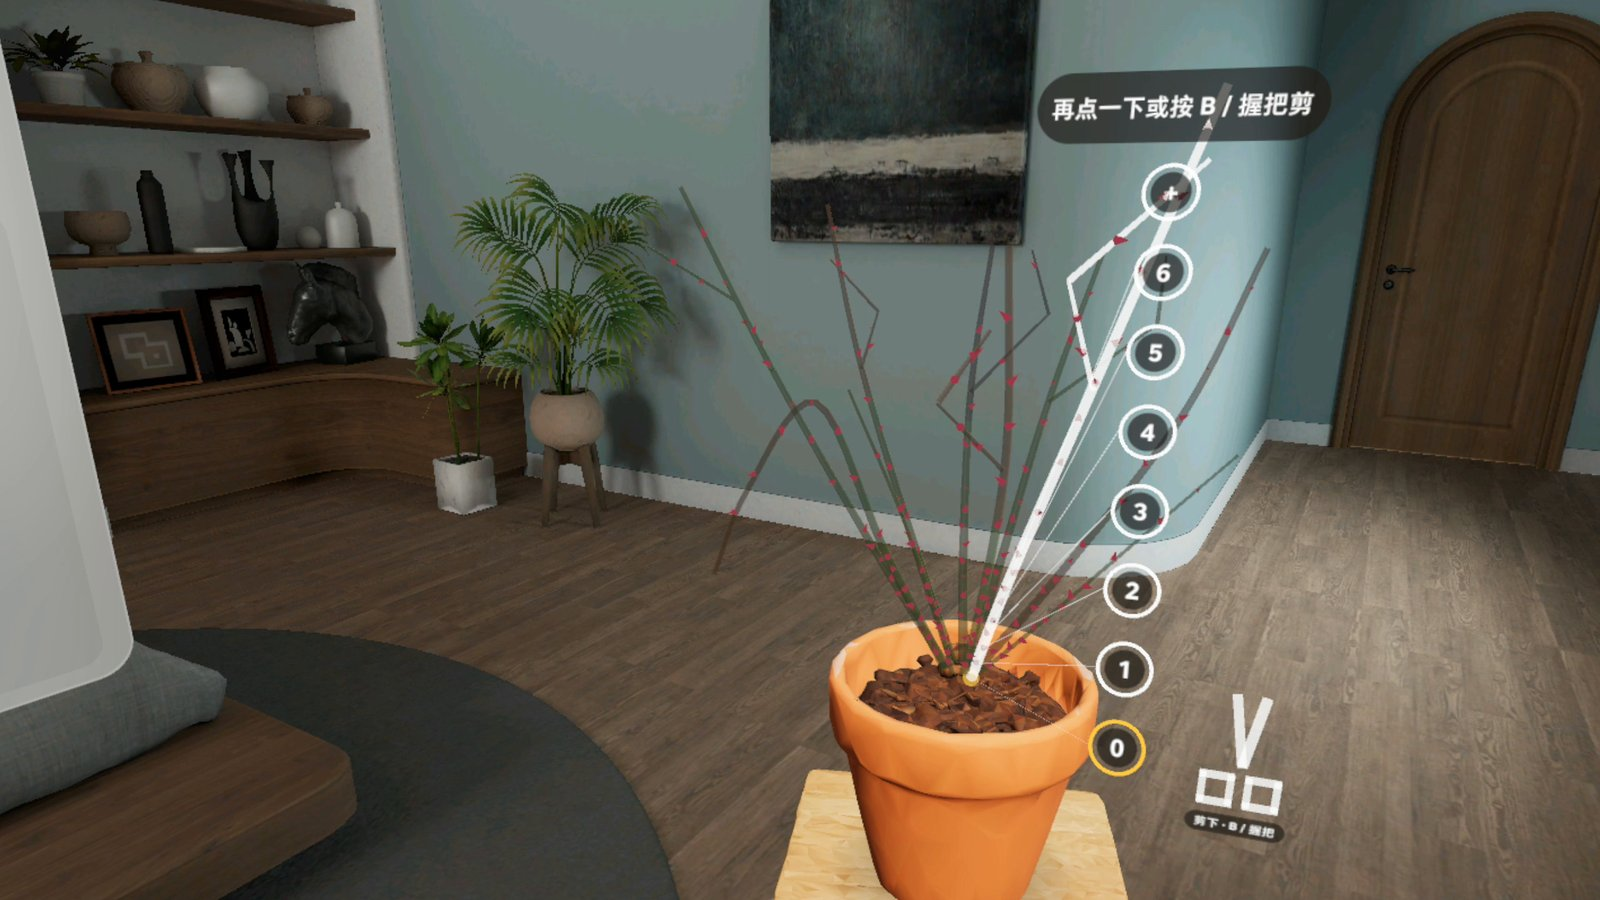
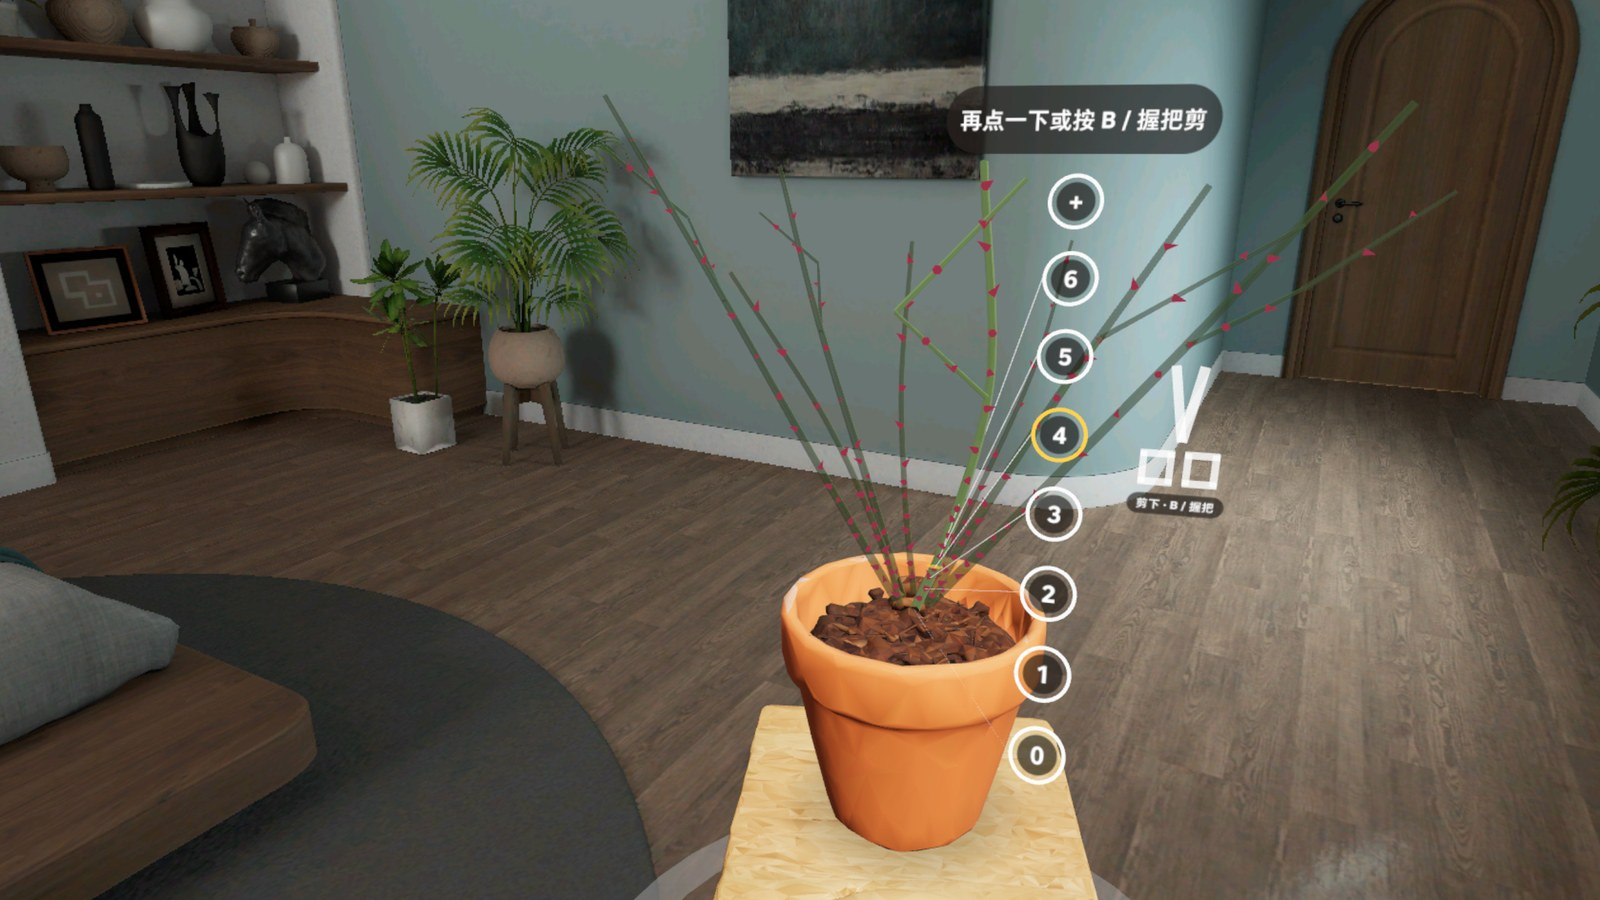
v0.1.8 release: bilingual README, new emulator screenshots

diff --git a/README.md b/README.md
@@ -1,13 +1,17 @@
 # 修枝课 Pruning Class
 
-> **v0.1.8 · 研发版（待 QA）**：选中的枝保留本色（不再整根变白），其余枝淡化但带标记的不淡；[重置本课] 有剪口时先确认（Build for QA · the selected branch keeps its own colour）
+> **v0.1.8 · 正式发布**：选中的枝保留本色（不再整根变白）；选中后直接点另一根枝就换选；只有系统射线一条；[重置本课] 有剪口时先确认。模拟器 QA 第 7 轮通过，已装头显、待戴上验收。
+> **v0.1.8 release**: the selected cane keeps its own colour (no more white); tap another cane to switch; one system ray only; [Reset lesson] asks first. Passed emulator QA round 7; installed on a headset, not yet checked by a person wearing it.
 
-**安装 / Install**（APK 在 [Release v0.1.7](https://github.com/kejing-dev/PruningClass/releases/tag/v0.1.7)）：
+**安装 / Install**（APK 在 [Release v0.1.8](https://github.com/kejing-dev/PruningClass/releases/tag/v0.1.8)）：
 
 ```bash
-adb install -r pruning-class-v0.1.7-debug.apk
+adb install -r PruningClass-v0.1.8.apk
 pico-cli app launch io.embodit.pruningclass
 ```
+
+Release 里的 `PruningClass-v0.1.8.apk` 是 `assembleRelease` 出的**未签名**包（上架用，平台托管签名）；直接装头显要先签名，或在本机 `./gradlew assembleDebug` 后装 `app/build/outputs/apk/debug/app-debug.apk`。
+The release APK is an **unsigned** `assembleRelease` build (for store submission, signed by the platform); to sideload, sign it first or build `./gradlew assembleDebug` and install the debug APK.
 
 头显上如果装过别的电脑签名的旧版、报 `INSTALL_FAILED_UPDATE_INCOMPATIBLE`，先 `adb uninstall io.embodit.pruningclass` 再装。
 If an older build signed on another machine is installed and you get `INSTALL_FAILED_UPDATE_INCOMPATIBLE`, run `adb uninstall io.embodit.pruningclass` first.
@@ -31,34 +35,35 @@ If an older build signed on another machine is installed and you get `INSTALL_FA
 - **设置**里有「怎么操作」：选枝、选芽、剪下、换枝、转树、挪树、剪完了，每项写手和手柄两种做法
 - 树站在真实地面上，捏住地上的圆圈拖动挪树；中英双语，不联网，不需要账号
 
-### 截图（模拟器，中文界面，v0.1.7）
+### 截图（模拟器，中文界面，v0.1.8）
 
 | | |
 |---|---|
-| ![选枝](docs/01-select.jpg) 选中一根枝：编号芽环，「点一个芽」 | ![剪刀](docs/02-scissors.jpg) 点了芽环：剪刀幽灵对准，「再点一下或按 B / 握把剪」 |
-| ![标准明年](docs/03-nextyear.jpg) 标准明年：剪对了，月季开花 | ![修剪页](docs/04-pruning.jpg) 修剪页：四个大按钮 + 这一课的口诀 |
-| ![成绩](docs/05-result.jpg) 成绩页：剪对 6 / 6，看明年、逐条看 | ![怎么操作](docs/06-howto.jpg) 设置 → 怎么操作：手和手柄的做法 |
+| ![选枝](docs/01-select.jpg) 选中一根枝：保留本色，编号芽环 | ![剪刀](docs/02-scissors.jpg) 点了芽环：剪刀幽灵对准，「再点一下或按 B / 握把剪」 |
+| ![提示](docs/03-hints.jpg) 提示开：该剪的枝标成提示橙 | ![标准明年](docs/04-nextyear.jpg) 标准明年：剪对了，月季开花 |
+| ![成绩](docs/05-result.jpg) 成绩页：剪对 6 / 6，看明年、逐条看、下一课 | ![苹果](docs/06-apple.jpg) 苹果考试剪完：「你的明年」开满花 |
 
-截图来自 PICO 模拟器（High Definition 2560）：前三张是 v0.1.7 演示录像里的画面和同一轮的截屏，后三张是 QA 第 6 轮（v0.1.7）的窗口截图。演示视频（Release 附件 `pruning-class-v0.1.7-demo.mp4`）是**原生模拟器演示，调试输入驱动；非真实手势录像**，无声。
+截图全部是 v0.1.8 在 PICO 模拟器（High Definition 2560）上拍的，调试广播摆状态。演示视频（Release 附件 `PruningClass-demo-v0.1.8.mp4`）是**模拟器演示，调试输入驱动；非真实手势录像**，无声。
 
 ### 真机未验证
 
-模拟器 QA 第 6 轮通过：无 Material 组件、启动 60 秒无崩溃 / ANR；芽环、字母环、剪刀用射线和眼手捏合各回归一遍 0 次点错；换枝、种植位置、拖动都回归过。下面这些只有戴上头显才能确认：
+模拟器 QA 第 7 轮通过：无 Material 组件、启动 60 秒无崩溃 / ANR；选中高亮（保留本色）、换枝、[重置本课] 确认都回归过。v0.1.8 已装到头显，还没人戴上看。下面这些只有戴上头显才能确认：
 
-- **射线**：应用不再自己画射线，按设计每个手柄只剩系统那一条。但 v0.1.0 在头显上，这个 Stage 里看不到系统射线，所以现在可能每手柄一条，也可能一条都没有——**请先看这一项**
+- **射线**：应用不再自己画射线，按设计只剩系统那一条——**请先看这一项**
 - 手柄 B / 握把剪、Y / X 退出、摇杆转树，拖动手感、眼动精度
 - 真机平面检测的时机和估算地面是否贴合
 
 ### 已知问题
 
 1. 射线真机未验（见上）。
-2. 剪刀幽灵还是方块拼的。
-3. 字母环和它对应的枝不够清楚。
-4. 捏合偶尔没收到点击（模拟器实测 4 / 84）。
-5. 修剪页常驻一行说明文字。
-6. [转 45°] 只能顺时针，反方向用摇杆。
-7. 控制窗和树隔约 63°，要转头。
-8. 「明年」视图里的标签会互相叠。
+2. 已选枝的芽环正好挡在别的枝尖前时，点那里会点到芽环而不是换枝（QA #7：7 次里 2 次）。
+3. 剪刀幽灵还是方块拼的。
+4. 字母环和它对应的枝不够清楚。
+5. 捏合偶尔没收到点击（模拟器实测 4 / 84）。
+6. 修剪页常驻一行说明文字。
+7. [转 45°] 只能顺时针，反方向用摇杆。
+8. 控制窗和树隔约 63°，要转头。
+9. 「明年」视图里的标签会互相叠。
 
 ### 开发
 
@@ -72,6 +77,7 @@ Learn to prune a rose bush and an apple tree before winter. A PICO OS 6 mixed-re
 
 - **Two plants, three lessons each**: rose (dead wood and thin stems → crossing, bud direction, bud count → exam); apple (dead wood, suckers, water shoots → open centre, leaders, don't over-prune → exam). Lesson 3 is an exam with no hints
 - **Big bud rings**: each ring ≥ 4.5 cm (≥ 2.3°) with ≥ 2 cm gaps, 7 to a page with "more"; when branches are close together, letter rings come first and you pick the branch by letter
+- **The selection keeps the colour**: the selected cane keeps its bark / disease / hint colour with a slight lift; the bud rings and tooltip show the selection
 - **Switch branches without a button**: with a branch selected, tap another one; tap the circle on the floor or press Y / X to leave
 - **Control window**: a native system window with three tabs (Lesson / Rule card / Settings). The lesson page has only [Undo] [Done] [Hints] [Turn 45°], 64 dp buttons with 16 dp gaps
 - **Results**: correct cuts, wrong cuts, amount removed; one button cycles now / your next year / model next year, and [Review] goes through every cut
@@ -80,26 +86,27 @@ Learn to prune a rose bush and an apple tree before winter. A PICO OS 6 mixed-re
 
 ### Screenshots
 
-See the table above (Chinese UI on the PICO emulator, High Definition 2560; the first three from the v0.1.7 demo session, the last three from QA round 6 on v0.1.7). The demo video in the release (`pruning-class-v0.1.7-demo.mp4`) is an emulator demo driven by debug input — **not a recording of real hand gestures** — and has no sound.
+See the table above (Chinese UI, all taken on v0.1.8 on the PICO emulator, High Definition 2560, states set by debug broadcasts). The demo video in the release (`PruningClass-demo-v0.1.8.mp4`) is an emulator demo driven by debug input — **not a recording of real hand gestures** — and has no sound.
 
 ### Not yet verified on a headset
 
-It passed emulator QA round 6: no Material components, 60 s launch with no crash / ANR, bud rings, letter rings and scissors re-tested with ray and eye-hand pinch with zero misses, branch switching, placement and dragging re-tested. Only a headset can confirm:
+It passed emulator QA round 7: no Material components, 60 s launch with no crash / ANR; the selection highlight (own colour), switching and the [Reset lesson] confirm re-tested. v0.1.8 is installed on a headset but nobody has worn it yet. Only a headset can confirm:
 
-- **The ray**: the app no longer draws its own ray, so each controller should show just the system one. But on the headset v0.1.0 showed no system ray in this Stage, so now there may be one ray per controller or none at all — **check this first**
+- **The ray**: the app no longer draws its own ray, so only the system one should show — **check this first**
 - B / grip to cut, Y / X to leave, stick to turn the tree, drag feel, eye-tracking precision
 - Real floor detection timing and whether the estimated floor fits
 
 ### Known issues
 
 1. The ray is not verified on a headset (see above).
-2. The scissors ghost is still built from boxes.
-3. Letter rings do not show clearly which branch they belong to.
-4. A pinch occasionally does not register as a tap (4 / 84 on the emulator).
-5. The lesson page keeps one line of instructions on screen.
-6. [Turn 45°] only turns clockwise; use the stick for the other way.
-7. The control window is about 63° away from the tree, so you have to turn your head.
-8. Labels overlap in the next-year view.
+2. When the selected cane's bud rings sit right in front of another cane's tip, tapping there hits the ring instead of switching (QA #7: 2 of 7).
+3. The scissors ghost is still built from boxes.
+4. Letter rings do not show clearly which branch they belong to.
+5. A pinch occasionally does not register as a tap (4 / 84 on the emulator).
+6. The lesson page keeps one line of instructions on screen.
+7. [Turn 45°] only turns clockwise; use the stick for the other way.
+8. The control window is about 63° away from the tree, so you have to turn your head.
+9. Labels overlap in the next-year view.
 
 ### Development
 
